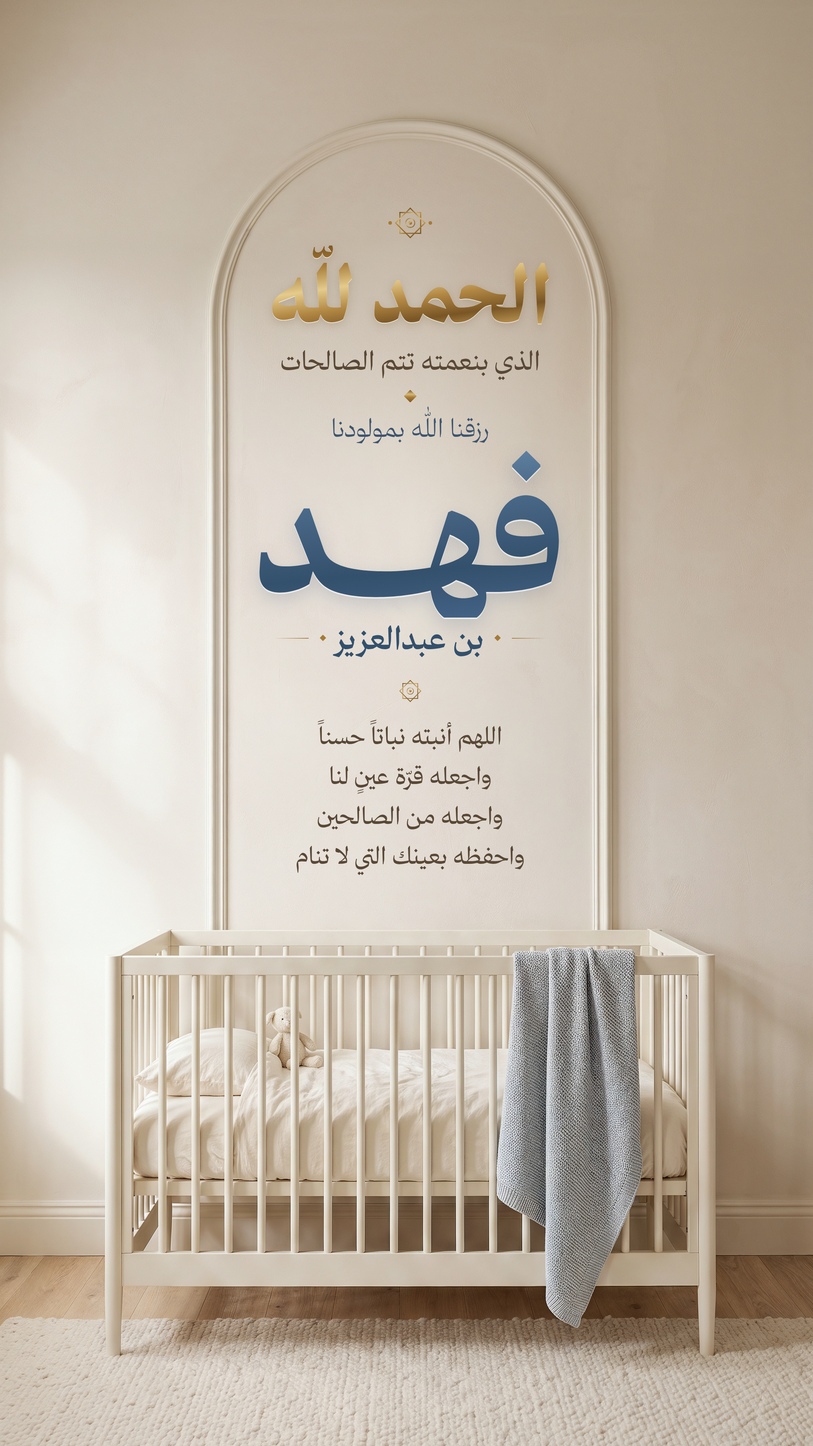
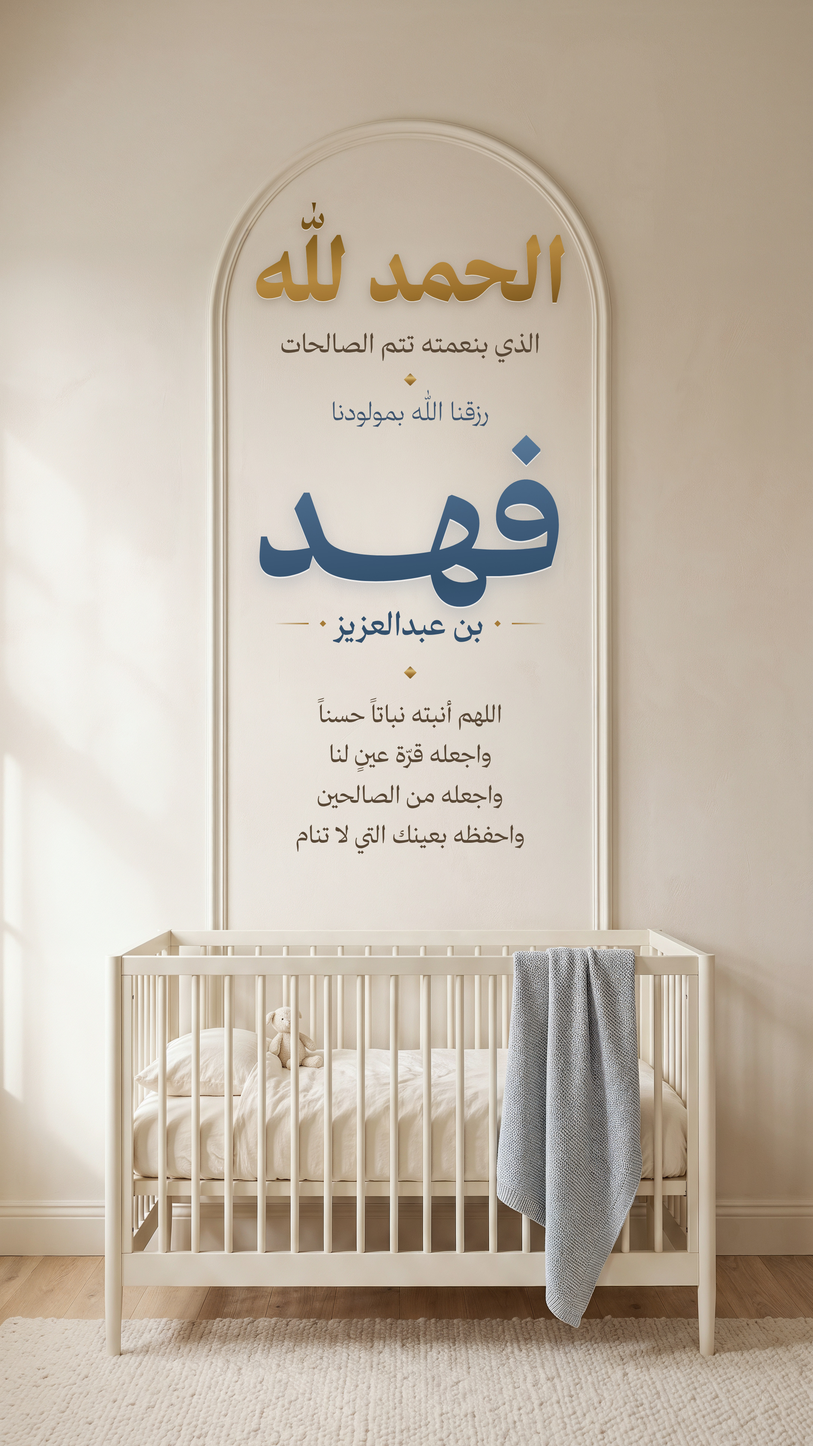
Fahd card: drop star ornaments, fix clipped heh, clearer gold, add father line
Claude-Session: https://claude.ai/code/session_01H9AUp2jc2mgzdWvwaqV7Su

Changed region(s): [[0.3102, 0.2812, 0.6824, 0.5938], [0.3102, 0.125, 0.7134, 0.3125]]

diff --git a/designs/fahd-birth/source/card.html b/designs/fahd-birth/source/card.html
@@ -32,14 +32,16 @@ body{font-family:T}
 .stack{position:absolute;left:var(--cx);transform:translateX(-50%);width:470px;
   display:flex;flex-direction:column;align-items:center;text-align:center}
 
-.foil{background:linear-gradient(172deg,#6c4a1a 0%,#a77b37 20%,#e6cd8e 38%,#b48944 54%,#7a5625 70%,#c9a25c 86%,#86602c 100%);
+.foil{background:linear-gradient(172deg,#5a3c10 0%,#86601f 24%,#b78a40 44%,#9c712d 60%,#6d4b18 80%,#8d6626 100%);
   -webkit-background-clip:text;background-clip:text;color:transparent;
-  filter:drop-shadow(0 1.5px 0 rgba(255,255,255,.7)) drop-shadow(0 3px 6px rgba(110,78,30,.22))}
+  filter:drop-shadow(0 1.5px 0 rgba(255,255,255,.65)) drop-shadow(0 4px 7px rgba(80,55,20,.28))}
 .navy{background:linear-gradient(175deg,#6f8fb0 0%,#4c6c8c 32%,#33506d 70%,#46668a 100%);
   -webkit-background-clip:text;background-clip:text;color:transparent;
   filter:drop-shadow(0 2px 0 rgba(255,255,255,.65)) drop-shadow(0 8px 12px rgba(51,80,109,.18))}
 
-.hero-gold{font-weight:900;font-size:122px;line-height:1.22;white-space:nowrap}
+.hero-gold{font-weight:900;font-size:140px;line-height:1.22;white-space:nowrap}
+/* gradient text is only painted inside the box: pad it so descenders (the heh of فهد) are never clipped */
+.foil,.navy{padding:.15em .12em .32em;margin-bottom:-.32em}
 .lead{font-weight:500;font-size:38px;line-height:1.4;color:var(--slate);white-space:nowrap}
 .lead-soft{font-weight:300;font-size:34px;line-height:1.4;color:var(--slate);white-space:nowrap}
 .sub{font-weight:400;font-size:35px;line-height:1.45;color:var(--ink);white-space:nowrap}
@@ -70,25 +72,9 @@ body.alt .v2{display:flex}
       </linearGradient>
       <linearGradient id="fadeR" x1="0" x2="1"><stop offset="0" stop-color="#a77b37" stop-opacity="0"/><stop offset="1" stop-color="#a77b37"/></linearGradient>
       <linearGradient id="fadeL" x1="1" x2="0"><stop offset="0" stop-color="#a77b37" stop-opacity="0"/><stop offset="1" stop-color="#a77b37"/></linearGradient>
-      <symbol id="star" viewBox="-50 -50 100 100">
-        <g fill="none" stroke="url(#g)" stroke-width="3.2">
-          <rect x="-30" y="-30" width="60" height="60"/>
-          <rect x="-30" y="-30" width="60" height="60" transform="rotate(45)"/>
-        </g>
-        <circle r="13" fill="none" stroke="url(#g)" stroke-width="2.4"/>
-        <circle r="5" fill="url(#g)"/>
-      </symbol>
-      <symbol id="ornTop" viewBox="0 0 250 56">
-        <line x1="8" y1="28" x2="90" y2="28" stroke="url(#fadeR)" stroke-width="1.6"/>
-        <line x1="160" y1="28" x2="242" y2="28" stroke="url(#fadeL)" stroke-width="1.6"/>
-        <circle cx="96" cy="28" r="2.6" fill="#a77b37"/><circle cx="154" cy="28" r="2.6" fill="#a77b37"/>
-        <use href="#star" x="99" y="3" width="52" height="50"/>
-      </symbol>
-      <symbol id="ornMid" viewBox="0 0 240 40">
-        <line x1="8" y1="20" x2="94" y2="20" stroke="url(#fadeR)" stroke-width="1.4"/>
-        <line x1="146" y1="20" x2="232" y2="20" stroke="url(#fadeL)" stroke-width="1.4"/>
-        <use href="#star" x="102" y="2" width="36" height="36"/>
-      </symbol>
+      
+      
+      
       <symbol id="ornDot" viewBox="0 0 170 16">
         <line x1="0" y1="8" x2="70" y2="8" stroke="url(#fadeR)" stroke-width="1.4"/>
         <line x1="100" y1="8" x2="170" y2="8" stroke="url(#fadeL)" stroke-width="1.4"/>
@@ -98,29 +84,28 @@ body.alt .v2{display:flex}
   </svg>
 
   <!-- ===== VARIANT 1 : congratulation from Mahmoud (default) ===== -->
-  <div class="stack v1" style="top:268px">
-    <svg width="230" height="52"><use href="#ornTop"/></svg>
-    <div class="hero-gold foil" style="margin-top:8px">مبـارك</div>
-    <div class="lead" style="margin-top:10px">أخي الغالي عبدالعزيز</div>
+  <div class="stack v1" style="top:272px">
+    <div class="hero-gold foil" style="margin-top:-.15em">مبارك</div>
+    <div class="lead" style="margin-top:6px">أخي الغالي عبدالعزيز</div>
     <div class="lead-soft" style="margin-top:2px">قدوم مولودك</div>
-    <div class="name navy" style="margin-top:14px">فهـــد</div>
-    <svg width="220" height="37" style="margin-top:18px"><use href="#ornMid"/></svg>
-    <div class="dua" style="margin-top:22px;font-size:31px">بُورك لك في الموهوب، وشكرتَ الواهب<br>وبلغ أشُدَّه، ورُزقتَ بِرَّه</div>
-    <div class="from" style="margin-top:56px">أخوك</div>
+    <div class="name navy" style="margin-top:calc(10px - .15em)">فهـــد</div>
+    <div class="father" style="margin-top:2px"><span class="rule l"></span><span class="dot"></span>بن عبدالعزيز<span class="dot"></span><span class="rule"></span></div>
+    <svg width="170" height="16" style="margin-top:32px"><use href="#ornDot"/></svg>
+    <div class="dua" style="margin-top:24px;font-size:31px">بُورك لك في الموهوب، وشكرتَ الواهب<br>وبلغ أشُدَّه، ورُزقتَ بِرَّه</div>
+    <div class="from" style="margin-top:50px">أخوك</div>
     <div class="sender" style="margin-top:4px"><span class="rule l"></span><span class="dot"></span>محمود سليمان<span class="dot"></span><span class="rule"></span></div>
   </div>
 
   <!-- ===== VARIANT 2 : announcement (original content) ===== -->
-  <div class="stack v2" style="top:270px">
-    <svg width="230" height="52"><use href="#ornTop"/></svg>
-    <div class="hero-gold foil" style="margin-top:4px;font-size:104px">الحمد لله</div>
-    <div class="sub">الذي بنعمته تتم الصالحات</div>
-    <svg width="170" height="16" style="margin-top:14px"><use href="#ornDot"/></svg>
+  <div class="stack v2" style="top:286px">
+    <div class="hero-gold foil" style="margin-top:-.15em;font-size:116px">الحمد لله</div>
+    <div class="sub" style="margin-top:2px">الذي بنعمته تتم الصالحات</div>
+    <svg width="170" height="16" style="margin-top:16px"><use href="#ornDot"/></svg>
     <div class="lead-soft" style="margin-top:10px">رزقنا الله بمولودنا</div>
-    <div class="name navy" style="margin-top:2px">فهـــد</div>
-    <div class="father"><span class="rule l"></span><span class="dot"></span>بن عبدالعزيز<span class="dot"></span><span class="rule"></span></div>
-    <svg width="220" height="37" style="margin-top:24px"><use href="#ornMid"/></svg>
-    <div class="dua" style="margin-top:14px;font-size:32px;line-height:1.66">اللهم أنبته نباتاً حسناً<br>واجعله قرّة عينٍ لنا<br>واجعله من الصالحين<br>واحفظه بعينك التي لا تنام</div>
+    <div class="name navy" style="margin-top:calc(2px - .15em)">فهـــد</div>
+    <div class="father" style="margin-top:2px"><span class="rule l"></span><span class="dot"></span>بن عبدالعزيز<span class="dot"></span><span class="rule"></span></div>
+    <svg width="170" height="16" style="margin-top:30px"><use href="#ornDot"/></svg>
+    <div class="dua" style="margin-top:20px;font-size:32px;line-height:1.66">اللهم أنبته نباتاً حسناً<br>واجعله قرّة عينٍ لنا<br>واجعله من الصالحين<br>واحفظه بعينك التي لا تنام</div>
   </div>
 
   <div class="vignette"></div>

diff --git a/designs/fahd-birth/README.md b/designs/fahd-birth/README.md
@@ -14,6 +14,7 @@
 ثمانية سيرف (Thmanyah Serif Text) بأوزانه:
 - Black: مبارك / الحمد لله
 - Bold: فهـــد، محمود سليمان
+- الفواصل: خط ذهبي رفيع في نصه معيّن صغير (من غير النجمة المربعات)
 - Medium: أخي الغالي عبدالعزيز، بن عبدالعزيز
 - Regular: الأدعية
 - Light: السطور الثانوية
